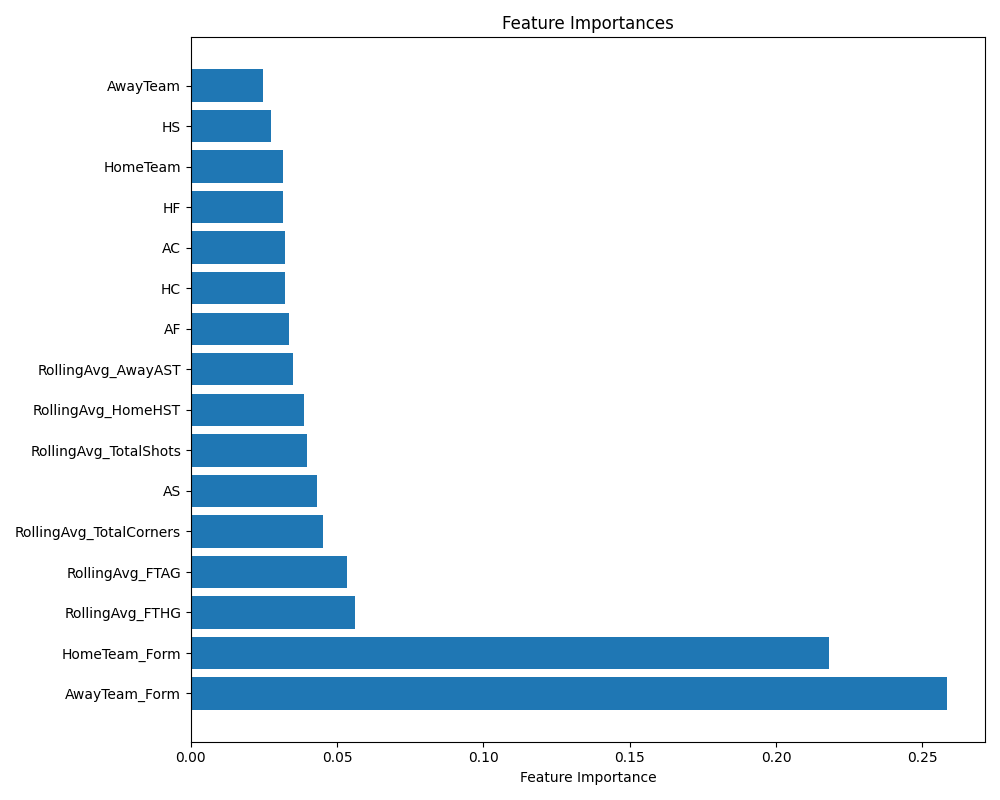
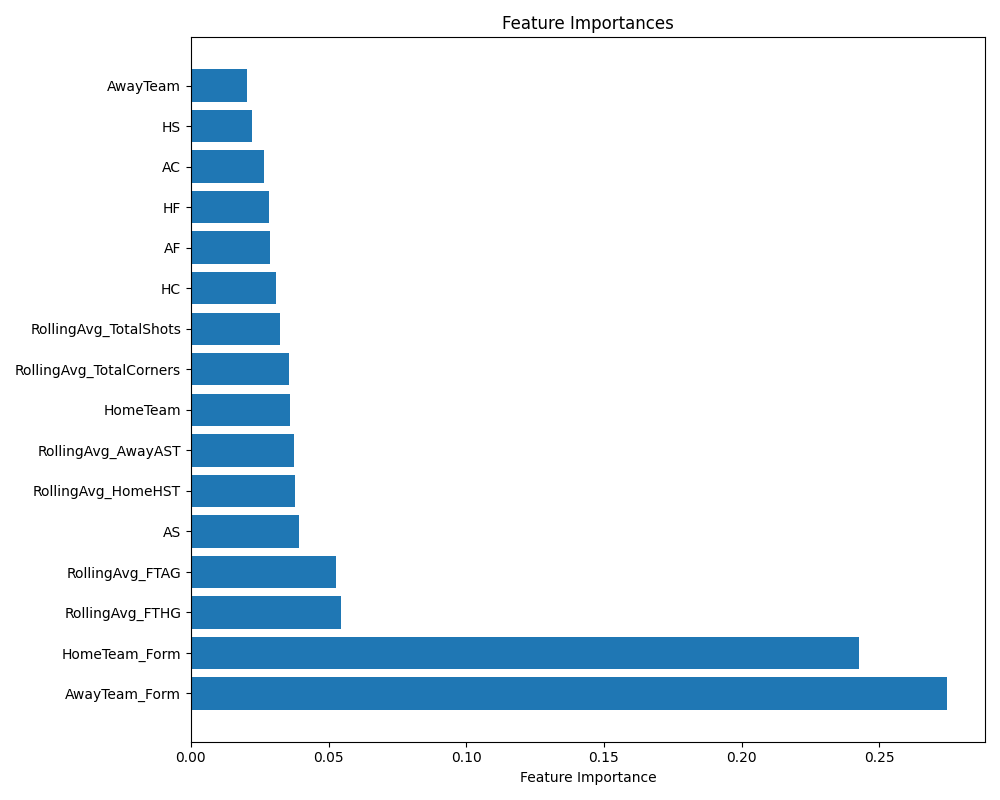
010425

diff --git a/e0/xg_pred_e0_4.py b/e0/xg_pred_e0_4.py
@@ -113,12 +113,12 @@ X_train, X_test, y_train, y_test = train_test_split(X, y, test_size=0.2, random_
 model = XGBClassifier(
     eval_metric='mlogloss', 
     use_label_encoder=False,
-    reg_alpha=0.2,  # Increase L1 regularization
-    reg_lambda=1,   # Keep L2 regularization
+    reg_alpha=0.5,  # Increase L1 regularization
+    reg_lambda=2,   # Keep L2 regularization
     max_depth=6,    # Limiting tree depth
-    learning_rate=0.05,
-    subsample=0.8,  # Subsample fraction for each tree
-    colsample_bytree=0.8  # Column sampling for each tree
+    learning_rate=0.03,
+    subsample=0.7,  # Subsample fraction for each tree
+    colsample_bytree=0.7  # Column sampling for each tree
 )
 model.fit(X_train, y_train)
 
@@ -177,11 +177,11 @@ plt.savefig('feature_importances.png')
 def prepare_match_prediction(home_team, away_team):
     match_features = {
         'HomeTeam': home_team, 'AwayTeam': away_team,
-        'HS': 9.8, 'AS': 12.0, 'HF': 7.6, 'AF': 9.2, 'HC': 2.4, 'AC': 5.4,
-        'RollingAvg_FTHG': 2.4, 'RollingAvg_FTAG': 1.6,
-        'RollingAvg_TotalShots': 21.8, 'RollingAvg_TotalCorners': 7.8,
-        'RollingAvg_HomeHST': 4.6, 'RollingAvg_AwayAST': 3.8,
-        'HomeTeam_Form': 6, 'AwayTeam_Form': 4
+        'HS': 14.8, 'AS': 8.2, 'HF': 13.8, 'AF': 11.8, 'HC': 5.0, 'AC': 3.4,
+        'RollingAvg_FTHG': 1.4, 'RollingAvg_FTAG': 1.2,
+        'RollingAvg_TotalShots': 23.0, 'RollingAvg_TotalCorners': 8.4,
+        'RollingAvg_HomeHST': 5.8, 'RollingAvg_AwayAST': 4.0,
+        'HomeTeam_Form': 1, 'AwayTeam_Form': 0
     }
     return pd.DataFrame([match_features])
 
@@ -213,7 +213,7 @@ def predict_match(model, home_team_name, away_team_name):
     return probabilities
 
 # Example usage
-team_names = ['Nott\'m Forest', 'Man United']
+team_names = ['Bournemouth', 'Ipswich']
 probabilities = predict_match(model, team_names[0], team_names[1])
 
 if probabilities is None:

diff --git a/e0/match_features_e0_1.py b/e0/match_features_e0_1.py
@@ -297,8 +297,8 @@ def estimate_total_corners(data, home_team, away_team, match_date=None, window=5
 data = pd.read_csv('../e0/E0_24_25.csv')
 
 data['Date'] = pd.to_datetime(data['Date'])  # Ensure Date column is in datetime format
-home_team = "Brighton"
-away_team = "Aston Villa"
+home_team = "Bournemouth"
+away_team = "Ipswich"
 
 #estimated_home_shots = compute_home_shots_rolling_avg(data, home_team)
 #print(f"Estimated Rolling Average HS for {home_team} at home: {estimated_home_shots}")
